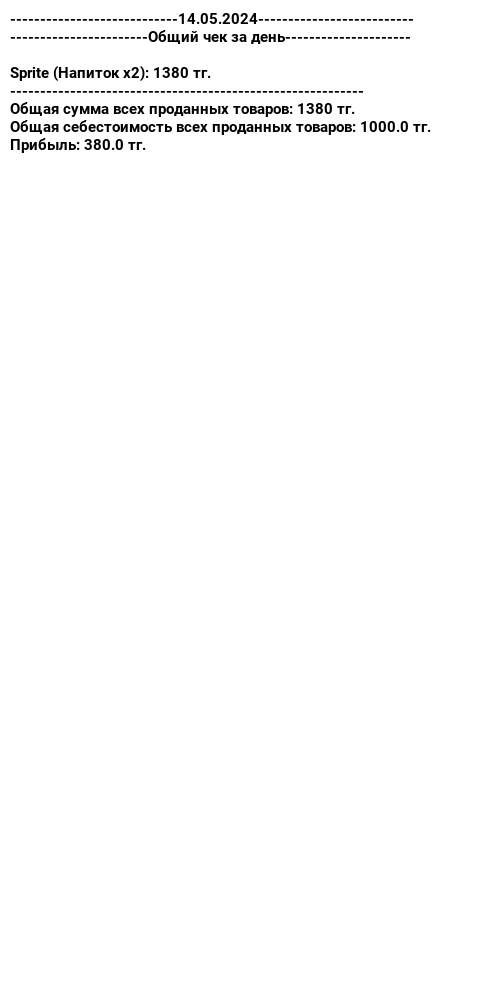
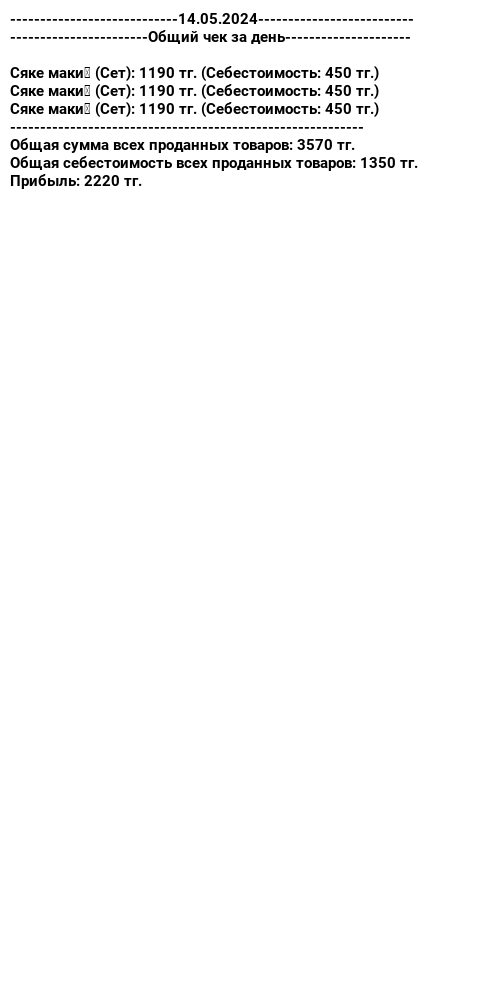
commit: "добавил работу с rest"

Changed region(s): [[0.0, 0.062, 0.84, 0.186]]

diff --git a/main.py b/main.py
@@ -298,6 +298,12 @@ def handle_total_sales(message):
                 total_price += set_info["price"]
                 total_cost += set_info["cost_price"]
                 sales_text += f"{item_name} (Сет): {set_info['price']} тг. (Себестоимость: {set_info['cost_price']} тг.)\n"
+        elif sale_type == "rest":
+            rest_info = next((r for r in rest if r["name"] == item_name), None)
+            if rest_info:
+                total_price += rest_info["price"]
+                total_cost += rest_info["cost_price"]
+                sales_text += f"{item_name} (Сет): {rest_info['price']} тг. (Себестоимость: {rest_info['cost_price']} тг.)\n"
         elif sale_type == "drink":
             drinks_cursor.execute("SELECT cost FROM drinks WHERE drink=?", (item_name,))
             drink_info = drinks_cursor.fetchone()
@@ -564,11 +570,16 @@ def handle_quantity(call):
         bot.register_next_step_handler(call.message, lambda message: update_quantity(message, item_name, is_set=True))
         return
 
+    selected_rest = next((r for r in rest if r["name"] == item_name), None)
+    if selected_rest:
+        bot.send_message(call.message.chat.id, f"Напишите количество {item_name} в цифрах:")
+        bot.register_next_step_handler(call.message, lambda message: update_quantity(message, item_name, is_rest = True))
+
     # Если товар не является напитком, продуктом или сетом, обработка ошибки
     bot.send_message(call.message.chat.id, "Произошла ошибка. Пожалуйста, попробуйте еще раз.")
 
 
-def update_quantity(message, item_name, is_drink=False, is_set=False):
+def update_quantity(message, item_name, is_drink=False, is_set=False, is_rest=False):
     try:
         quantity = int(message.text)
         if is_drink:
@@ -672,6 +683,56 @@ def update_quantity(message, item_name, is_drink=False, is_set=False):
                                      f"Не хватает продукта '{missing_product}' для приготовления сета '{selected_set['name']}'.")
             else:
                 bot.send_message(message.chat.id, f"Сет '{item_name}' не найден в базе данных.")
+
+        elif is_rest:
+            selected_rest = next((r for r in rest if r["name"] == item_name), None)
+            if selected_rest:
+                enough_products = True
+                missing_product = None
+                for ingredient in selected_rest["ingredients"]:
+                    if ingredient["type"] == "product":
+                        products_conn = sqlite3.connect('products.db')
+                        products_cursor = products_conn.cursor()
+                        products_cursor.execute("SELECT quantity FROM products WHERE product=?", (ingredient["name"],))
+                        existing_product = products_cursor.fetchone()
+                        if not existing_product or existing_product[0] < ingredient["quantity"] * quantity:
+                            enough_products = False
+                            missing_product = ingredient["name"]
+                            break
+                        products_conn.close()
+
+                if enough_products:
+                    total_set_price = selected_rest["price"] * quantity
+                    for ingredient in selected_rest["ingredients"]:
+                        if  ingredient["type"] == "product":
+                            # Обновляем количество проданного продукта
+                            products_conn = sqlite3.connect('products.db')
+                            products_cursor = products_conn.cursor()
+                            products_cursor.execute("UPDATE products SET quantity=quantity-? WHERE product=?",
+                                                    (ingredient["quantity"] * quantity, ingredient["name"]))
+                            products_conn.commit()
+                            products_conn.close()
+
+
+                    # Создаем новую запись о продаже сета
+                    sales_conn = sqlite3.connect('sales.db')
+                    sales_cursor = sales_conn.cursor()
+                    sales_cursor.execute(
+                        "INSERT INTO sales (item_name, type, quantity, total_price) VALUES (?, ?, ?, ?)",
+                        (selected_rest["name"], "rest", quantity, total_set_price))
+                    sales_conn.commit()
+                    sales_conn.close()
+
+                    bot.send_message(message.chat.id,
+                                     f"Заказ на сет '{selected_rest['name']}' успешно пробит. Цена: {total_set_price} тг.")
+                    handle_start(message)
+                else:
+                    # Выводим сообщение о том, что не хватает продукта для приготовления сета
+                    bot.send_message(message.chat.id,
+                                     f"Не хватает продукта '{missing_product}' для приготовления сета '{selected_rest['name']}'.")
+            else:
+                bot.send_message(message.chat.id, f"Сет '{item_name}' не найден в базе данных.")
+
 
         else:
             # Подключение к базе данных SQLite для продуктов

diff --git a/sets_data.py b/sets_data.py
@@ -1,15 +1,15 @@
 sets = [
-    {"name": "Сет Токио", "price": 6290, "cost_price": 4000, "ingredients": [
+    {"name": "Сет Токио", "price": 6290, "cost_price": 2433, "ingredients": [
         {"type": "drink", "name": "Cola", "quantity": 1},
         {"type": "product", "name": "Рис", "quantity": 350},
         {"type": "product", "name": "Огурцы", "quantity": 200}
     ]},
-    {"name": "Сет Любовь", "price": 4990, "cost_price": 4000, "ingredients": [
+    {"name": "Сет Любовь", "price": 4990, "cost_price": 2223, "ingredients": [
         {"type": "drink", "name": "Cola", "quantity": 1},
         {"type": "product", "name": "Мука", "quantity": 350},
         {"type": "product", "name": "Картошка", "quantity": 200}
     ]},
-    {"name": "Сет Шымкент", "price": 7990, "cost_price": 4000, "ingredients": [
+    {"name": "Сет Шымкент", "price": 7990, "cost_price": 2983, "ingredients": [
         {"type": "drink", "name": "Cola", "quantity": 1},
         {"type": "product", "name": "Мука", "quantity": 350},
         {"type": "product", "name": "Картошка", "quantity": 200}
@@ -24,7 +24,7 @@ sets = [
         {"type": "product", "name": "Мука", "quantity": 350},
         {"type": "product", "name": "Картошка", "quantity": 200}
     ]},
-    {"name": "Сет Пара", "price": 6490, "cost_price": 3509, "ingredients": [
+    {"name": "Сет Пара", "price": 6490, "cost_price": 3174, "ingredients": [
         {"type": "drink", "name": "Cola", "quantity": 1},
         {"type": "product", "name": "Мука", "quantity": 350},
         {"type": "product", "name": "Картошка", "quantity": 200}
@@ -45,6 +45,11 @@ sets = [
         {"type": "product", "name": "Картошка", "quantity": 200}
     ]},
     {"name": "Сет Жаренный", "price": 6490, "cost_price": 2952, "ingredients": [
+        {"type": "drink", "name": "Cola", "quantity": 1},
+        {"type": "product", "name": "Мука", "quantity": 350},
+        {"type": "product", "name": "Картошка", "quantity": 200}
+    ]},
+    {"name": "Сет Счастья", "price": 5290, "cost_price": 2717, "ingredients": [
         {"type": "drink", "name": "Cola", "quantity": 1},
         {"type": "product", "name": "Мука", "quantity": 350},
         {"type": "product", "name": "Картошка", "quantity": 200}
